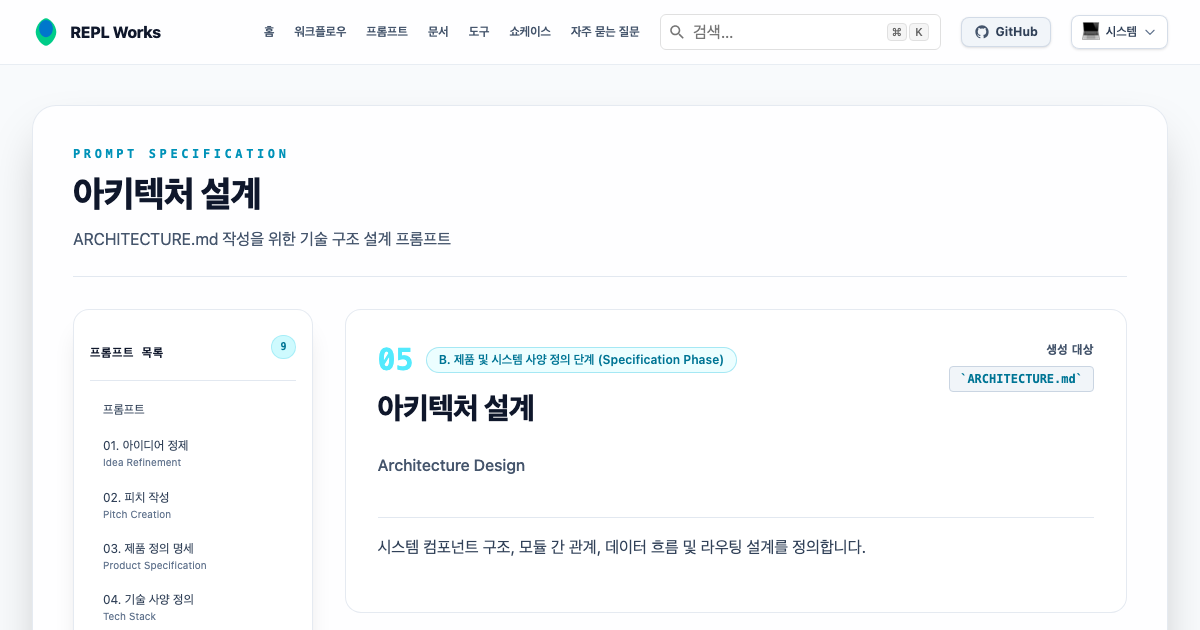
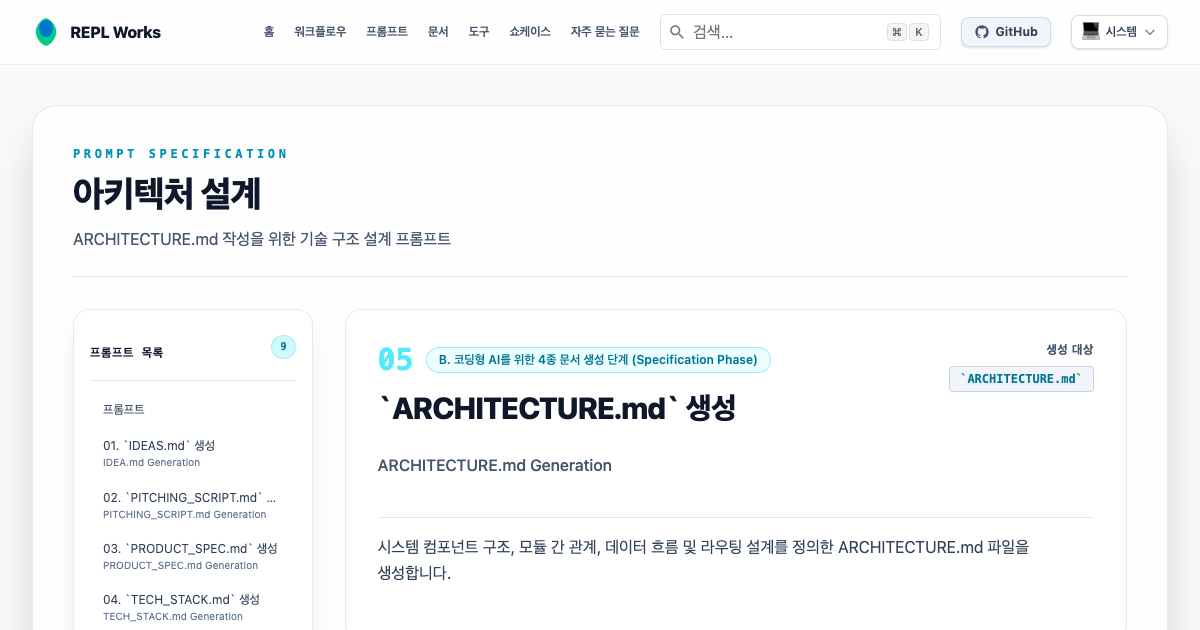
feat: update prompt titles and descriptions for consistency and clarity (#115)
* feat: update prompt titles and descriptions for consistency and clarity

* feat: update prompt references from 'idea-refinement' to 'idea-generation' for consistency

diff --git a/src/data/prompts.ts b/src/data/prompts.ts
@@ -1,7 +1,6 @@
 export type PromptGroup =
-  | 'A. 기획 및 아이디어 정의 단계 (Planning Phase)'
-  | 'B. 제품 및 시스템 사양 정의 단계 (Specification Phase)'
-  | 'C. 검증 및 리뷰 단계 (Review & Validation Phase)';
+  | 'A. 사람을 위한 아이디어, 피칭 스크립트 문서 생성 단계 (Planning Phase)'
+  | 'B. 코딩형 AI를 위한 4종 문서 생성 단계 (Specification Phase)';
 
 export interface PromptDefinition {
   number: number;
@@ -17,106 +16,102 @@ export interface PromptDefinition {
 export const promptDefinitions: PromptDefinition[] = [
   {
     number: 1,
-    slug: 'idea-refinement',
-    name: 'Idea Refinement',
-    koreanName: '아이디어 정제',
+    slug: 'idea-generation',
+    name: 'IDEA.md Generation',
+    koreanName: '`IDEAS.md` 생성',
     description:
-      '기획자와 대화형 AI가 대화하며 아이디어와 비즈니스 가설을 다듬고 정제합니다.',
-    group: 'A. 기획 및 아이디어 정의 단계 (Planning Phase)',
+      '대화형 AI가 대화하며 만들어진 아이디어를 IDEAS.md 파일로 생성합니다.',
+    group:
+      'A. 사람을 위한 아이디어, 피칭 스크립트 문서 생성 단계 (Planning Phase)',
     targetLabel: '생성 대상',
     targetFiles: ['IDEAS.md'],
   },
   {
     number: 2,
     slug: 'pitch-creation',
-    name: 'Pitch Creation',
-    koreanName: '피치 작성',
+    name: 'PITCHING_SCRIPT.md Generation',
+    koreanName: '`PITCHING_SCRIPT.md` 생성',
     description:
-      '프로젝트의 목적과 차별성을 핵심 카피라인과 짧은 피치 스크립트로 압축 정리합니다.',
-    group: 'A. 기획 및 아이디어 정의 단계 (Planning Phase)',
+      '대화형 AI가 대화하며 만들어진 아이디어를 바탕으로 PITCHING_SCRIPT.md 파일을 생성합니다.',
+    group:
+      'A. 사람을 위한 아이디어, 피칭 스크립트 문서 생성 단계 (Planning Phase)',
     targetLabel: '생성 대상',
     targetFiles: ['PITCHING_SCRIPT.md'],
   },
   {
     number: 3,
     slug: 'product-specification',
-    name: 'Product Specification',
-    koreanName: '제품 정의 명세',
+    name: 'PRODUCT_SPEC.md Generation',
+    koreanName: '`PRODUCT_SPEC.md` 생성',
     description:
-      '제품의 도메인 비전, 타겟 유저, 정보 아키텍처 및 세부 기능 요구사항 규격을 구조화합니다.',
-    group: 'B. 제품 및 시스템 사양 정의 단계 (Specification Phase)',
+      '제품의 도메인 비전, 타겟 유저, 정보 아키텍처 및 세부 기능 요구사항 규격을 구조화한 PRODUCT_SPEC.md 파일을 생성합니다.',
+    group: 'B. 코딩형 AI를 위한 4종 문서 생성 단계 (Specification Phase)',
     targetLabel: '생성 대상',
     targetFiles: ['PRODUCT_SPEC.md'],
   },
   {
     number: 4,
     slug: 'tech-stack',
-    name: 'Tech Stack',
-    koreanName: '기술 사양 정의',
+    name: 'TECH_STACK.md Generation',
+    koreanName: '`TECH_STACK.md` 생성',
     description:
-      '사용 기술, 언어 버전, 파일 배치 규칙, Naming Rule 등 구현 컨벤션을 정의합니다.',
-    group: 'B. 제품 및 시스템 사양 정의 단계 (Specification Phase)',
+      '사용 기술, 언어 버전, 파일 배치 규칙, Naming Rule 등 구현 컨벤션을 정의한 TECH_STACK.md 파일을 생성합니다.',
+    group: 'B. 코딩형 AI를 위한 4종 문서 생성 단계 (Specification Phase)',
     targetLabel: '생성 대상',
     targetFiles: ['TECH_STACK.md'],
   },
   {
     number: 5,
     slug: 'architecture-design',
-    name: 'Architecture Design',
-    koreanName: '아키텍처 설계',
+    name: 'ARCHITECTURE.md Generation',
+    koreanName: '`ARCHITECTURE.md` 생성',
     description:
-      '시스템 컴포넌트 구조, 모듈 간 관계, 데이터 흐름 및 라우팅 설계를 정의합니다.',
-    group: 'B. 제품 및 시스템 사양 정의 단계 (Specification Phase)',
+      '시스템 컴포넌트 구조, 모듈 간 관계, 데이터 흐름 및 라우팅 설계를 정의한 ARCHITECTURE.md 파일을 생성합니다.',
+    group: 'B. 코딩형 AI를 위한 4종 문서 생성 단계 (Specification Phase)',
     targetLabel: '생성 대상',
     targetFiles: ['ARCHITECTURE.md'],
   },
   {
     number: 6,
-    slug: 'task-generation',
-    name: 'Task Generation',
-    koreanName: '작업 계획 수립',
+    slug: 'architecture-review',
+    name: 'ARCHITECTURE.md Review',
+    koreanName: '`ARCHITECTURE.md` 검토',
     description:
-      '아키텍처와 제품 명세를 바탕으로 실행 가능한 실행 마일스톤 목록을 생성합니다.',
-    group: 'B. 제품 및 시스템 사양 정의 단계 (Specification Phase)',
-    targetLabel: '생성 대상',
-    targetFiles: ['TASKS.md'],
+      'ARCHITECTURE.md가 제품 요구사항과 기술 스택의 구현 제약을 충족하는지 검토합니다.',
+    group: 'B. 코딩형 AI를 위한 4종 문서 생성 단계 (Specification Phase)',
+    targetLabel: '검토 대상',
+    targetFiles: ['PRODUCT_SPEC.md', 'TECH_STACK.md', 'ARCHITECTURE.md'],
   },
   {
     number: 7,
     slug: 'execution-validation',
     name: 'Execution Validation',
-    koreanName: '구현 준비 상태 검증',
+    koreanName: '3종 문서 검토',
     description:
       '코드 구현을 시작하기 전에 상위 문서 간 충돌이나 빠진 영역이 없는지 검증합니다.',
-    group: 'C. 검증 및 리뷰 단계 (Review & Validation Phase)',
-    targetLabel: '검토 대상',
-    targetFiles: [
-      'PRODUCT_SPEC.md',
-      'TECH_STACK.md',
-      'ARCHITECTURE.md',
-      'TASKS.md',
-      'AGENTS.md',
-    ],
-  },
-  {
-    number: 8,
-    slug: 'architecture-review',
-    name: 'Architecture Review',
-    koreanName: '아키텍처 명세 검토',
-    description:
-      'ARCHITECTURE.md가 제품 요구사항과 기술 스택의 구현 제약을 충족하는지 검토합니다.',
-    group: 'C. 검증 및 리뷰 단계 (Review & Validation Phase)',
+    group: 'B. 코딩형 AI를 위한 4종 문서 생성 단계 (Specification Phase)',
     targetLabel: '검토 대상',
     targetFiles: ['PRODUCT_SPEC.md', 'TECH_STACK.md', 'ARCHITECTURE.md'],
   },
   {
+    number: 8,
+    slug: 'task-generation',
+    name: 'TASKS.md Generation',
+    koreanName: '`TASKS.md` 생성',
+    description:
+      '아키텍처와 제품 명세를 바탕으로 실행 가능한 실행 마일스톤 목록이 포함된 TASKS.md 파일을 생성합니다.',
+    group: 'B. 코딩형 AI를 위한 4종 문서 생성 단계 (Specification Phase)',
+    targetLabel: '생성 대상',
+    targetFiles: ['TASKS.md'],
+  },
+  {
     number: 9,
     slug: 'task-review',
-    name: 'Task Review',
-    koreanName: '작업 계획 검토',
+    name: 'TASKS.md Review',
+    koreanName: '`TASKS.md` 검토',
     description:
       'TASKS.md가 제품 요구사항과 아키텍처 설계를 빠짐없이 반영했는지 검토합니다.',
-    group: 'C. 검증 및 리뷰 단계 (Review & Validation Phase)',
+    group: 'B. 코딩형 AI를 위한 4종 문서 생성 단계 (Specification Phase)',
     targetLabel: '검토 대상',
     targetFiles: [
       'PRODUCT_SPEC.md',
@@ -128,7 +123,6 @@ export const promptDefinitions: PromptDefinition[] = [
 ];
 
 export const promptGroups: PromptGroup[] = [
-  'A. 기획 및 아이디어 정의 단계 (Planning Phase)',
-  'B. 제품 및 시스템 사양 정의 단계 (Specification Phase)',
-  'C. 검증 및 리뷰 단계 (Review & Validation Phase)',
+  'A. 사람을 위한 아이디어, 피칭 스크립트 문서 생성 단계 (Planning Phase)',
+  'B. 코딩형 AI를 위한 4종 문서 생성 단계 (Specification Phase)',
 ];

diff --git a/tests/index.e2e.ts b/tests/index.e2e.ts
@@ -58,7 +58,7 @@ test('renders document explanations without code controls', async ({
 
 test('applies the light theme to detail pages', async ({ page }) => {
   await page.addInitScript(() => localStorage.setItem('theme', 'light'));
-  await page.goto('/prompts/idea-refinement');
+  await page.goto('/prompts/idea-generation');
 
   await expect(page.locator('html')).toHaveClass(/light/);
   await expect(page.locator('html')).not.toHaveClass(/dark/);
@@ -76,7 +76,7 @@ test('renders expressive code blocks with a localized copy button', async ({
   page,
 }) => {
   await page.addInitScript(() => localStorage.setItem('theme', 'light'));
-  await page.goto('/prompts/idea-refinement');
+  await page.goto('/prompts/idea-generation');
 
   const copyButton = page.locator('.expressive-code .copy button').first();
   await expect(copyButton).toBeVisible();
@@ -306,7 +306,7 @@ test('embeds the exact prompt text rendered on every prompt detail page and has 
 });
 
 test('renders sidebar navigation on detail pages', async ({ page }) => {
-  await page.goto('/prompts/idea-refinement');
+  await page.goto('/prompts/idea-generation');
   await expect(page.locator('aside nav')).toBeVisible();
   await expect(
     page.locator('aside nav').getByRole('link', { name: /피치 작성/ }),

diff --git a/README.md b/README.md
@@ -216,7 +216,7 @@ shot-scraper multi   # og.yml 에 따라 각 페이지를 1200×630으로 캡처
 public/og/
 ├── index.png                      # /
 ├── prompts.png                    # /prompts
-├── prompts-idea-refinement.png    # /prompts/idea-refinement
+├── prompts-idea-generation.png    # /prompts/idea-generation
 ├── showcase-ai-issue.png          # /showcase/ai-issue
 └── ...
 ```
